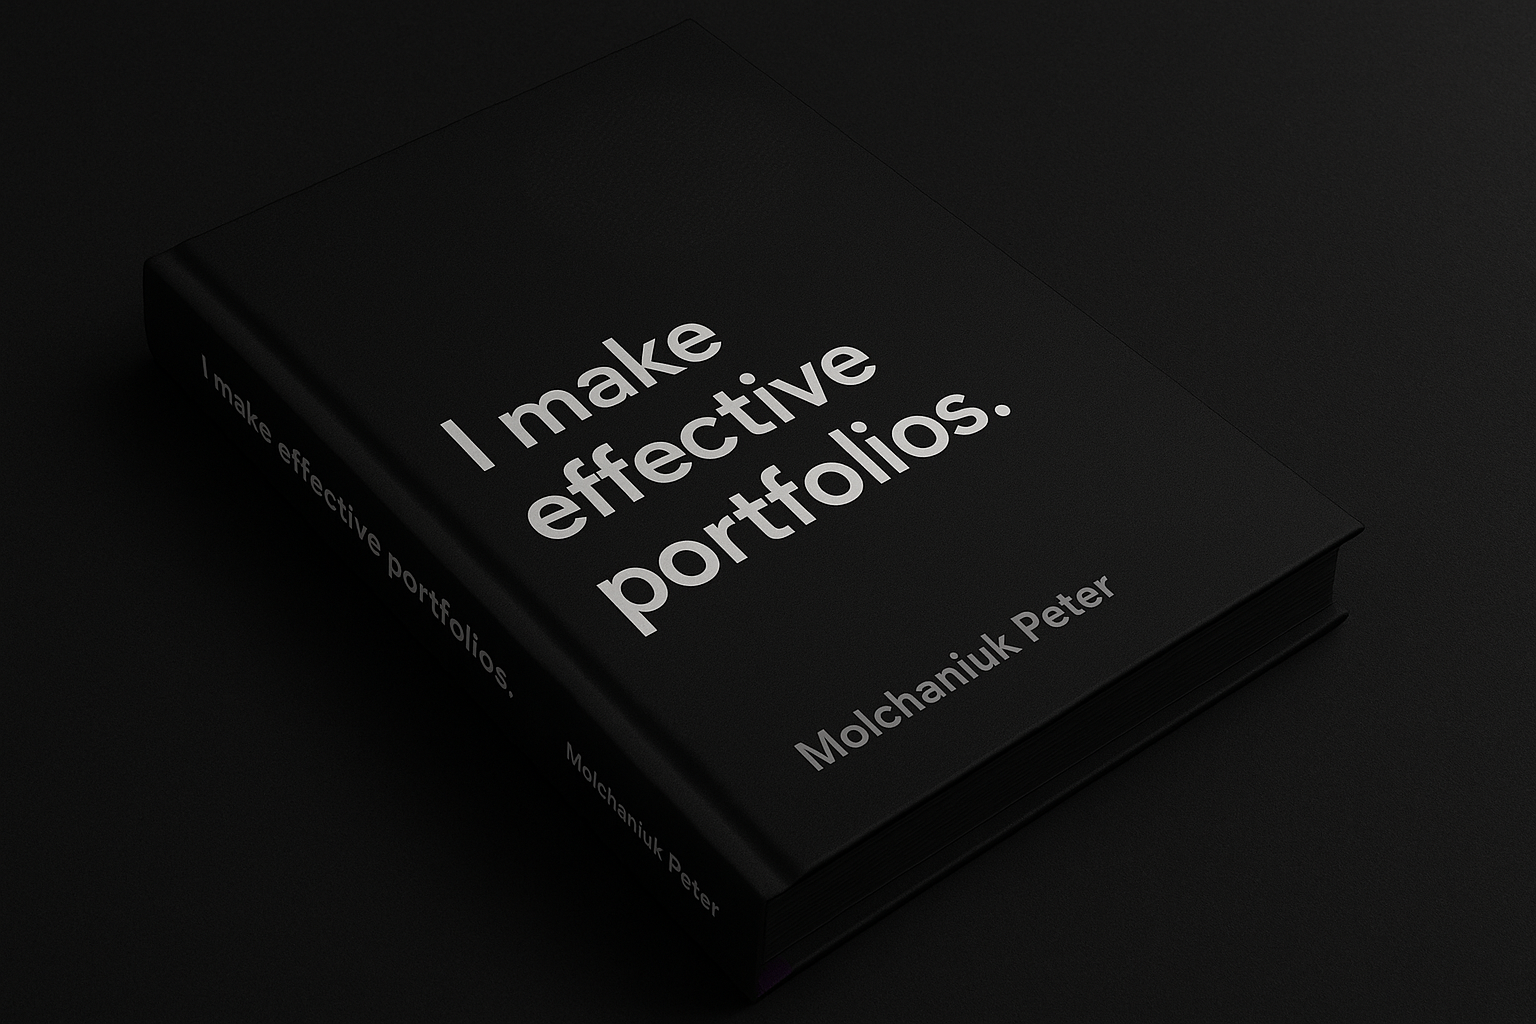
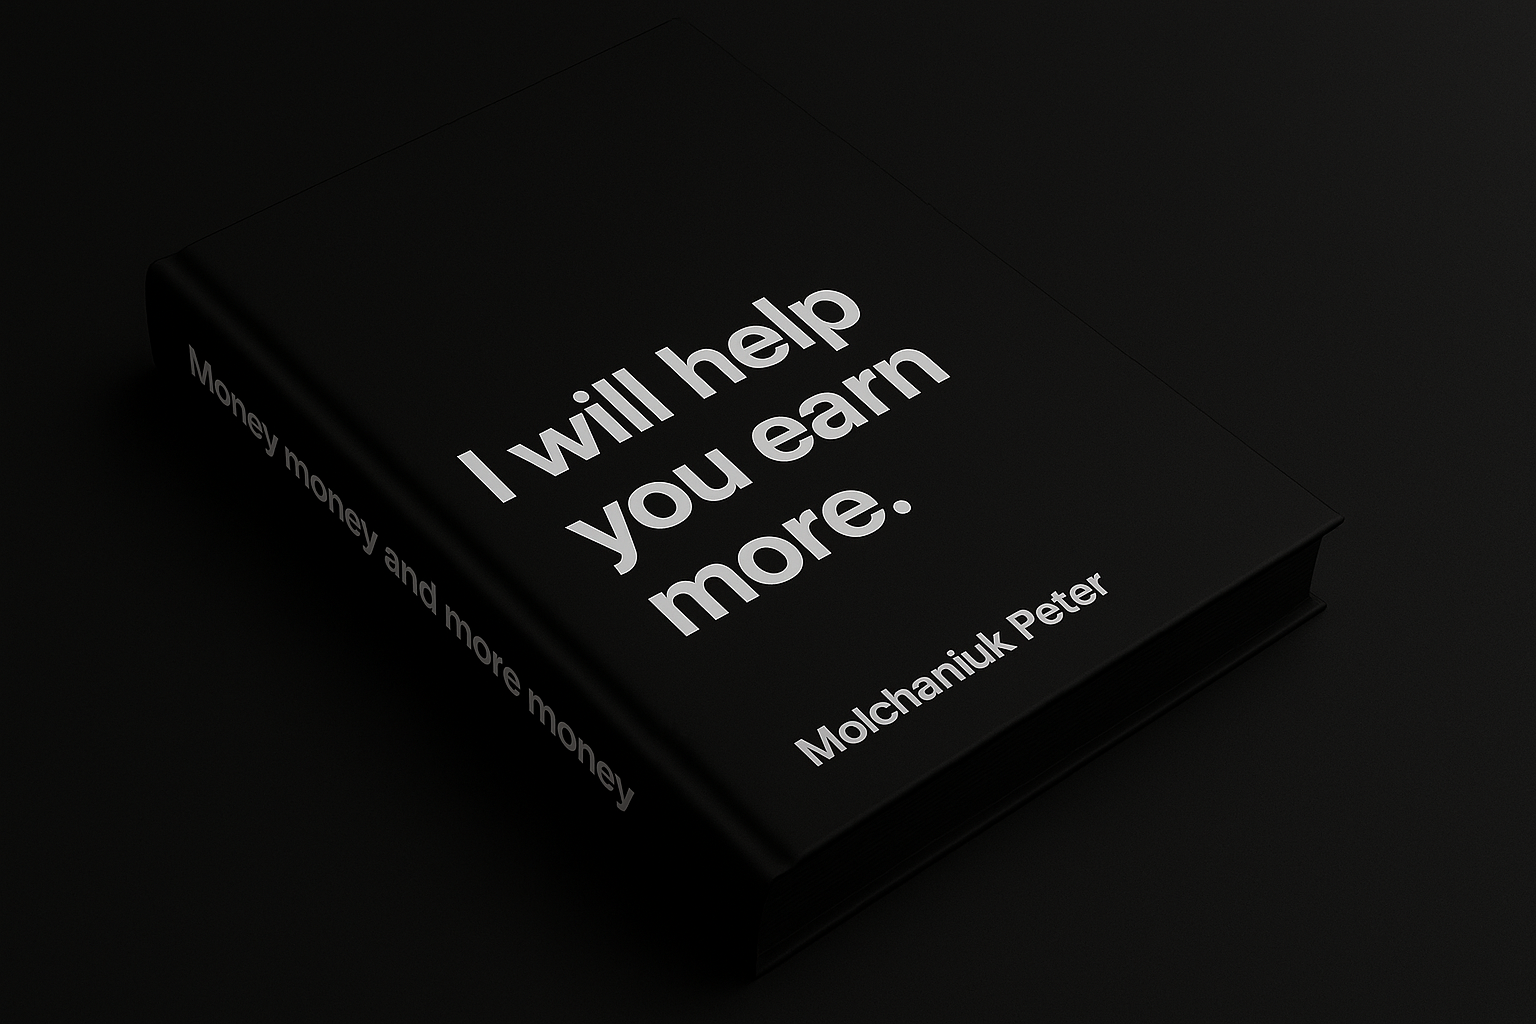
Update portfolio with business automation focus: Telegram bot project, contact info, and UI improvements

diff --git a/src/App.css b/src/App.css
@@ -60,7 +60,7 @@ h2 {
 .hero-section h1 {
   font-size: 3rem;
   margin-bottom: 20px;
-  background: linear-gradient(to right, #ffffff, #cccccc);
+  background: linear-gradient(to right, #4facfe 0%, #00f2fe 100%);
   -webkit-background-clip: text;
   -webkit-text-fill-color: transparent;
   background-clip: text;
@@ -137,9 +137,9 @@ h2 {
 }
 
 .primary-btn {
-  background: linear-gradient(135deg, #667eea 0%, #764ba2 100%);
+  background: linear-gradient(135deg, #00c6ff 0%, #0072ff 100%);
   color: white;
-  box-shadow: 0 5px 15px rgba(102, 126, 234, 0.4);
+  box-shadow: 0 5px 15px rgba(0, 198, 255, 0.4);
 }
 
 .secondary-btn {
@@ -149,10 +149,10 @@ h2 {
 }
 
 .highlight-btn {
-  background: linear-gradient(135deg, #8a2be2, #9370db, #da70d6);
+  background: linear-gradient(135deg, #00b09b, #96c93d);
   background-size: 200% 200%;
   color: white;
-  box-shadow: 0 0 20px rgba(138, 43, 226, 0.7);
+  box-shadow: 0 0 20px rgba(0, 176, 155, 0.7);
   animation: gradientShift 3s ease infinite, pulse 2s ease infinite;
   position: relative;
   overflow: hidden;
@@ -168,7 +168,7 @@ h2 {
 .highlight-btn:hover {
   animation: gradientShift 1s ease infinite, pulse 1s ease infinite;
   transform: translateY(-3px);
-  box-shadow: 0 8px 25px rgba(138, 43, 226, 0.9);
+  box-shadow: 0 8px 25px rgba(0, 176, 155, 0.9);
 }
 
 .highlight-btn::before {
@@ -188,7 +188,7 @@ h2 {
 
 .primary-btn:hover {
   transform: translateY(-3px);
-  box-shadow: 0 8px 20px rgba(102, 126, 234, 0.6);
+  box-shadow: 0 8px 20px rgba(0, 198, 255, 0.6);
 }
 
 .secondary-btn:hover {
@@ -220,13 +220,13 @@ h2 {
 
 @keyframes pulse {
   0% {
-    box-shadow: 0 0 20px rgba(138, 43, 226, 0.7);
+    box-shadow: 0 0 20px rgba(0, 176, 155, 0.7);
   }
   50% {
-    box-shadow: 0 0 30px rgba(147, 112, 219, 0.9);
+    box-shadow: 0 0 30px rgba(150, 201, 61, 0.9);
   }
   100% {
-    box-shadow: 0 0 20px rgba(138, 43, 226, 0.7);
+    box-shadow: 0 0 20px rgba(0, 176, 155, 0.7);
   }
 }
 
@@ -404,7 +404,7 @@ h2 {
 
 .skills-summary li:before {
   content: "✓";
-  color: #ffffff;
+  color: #00c6ff;
   font-weight: bold;
   display: inline-block;
   width: 1em;
@@ -432,15 +432,14 @@ h2 {
   display: block;
   width: 100px;
   height: 3px;
-  background: linear-gradient(135deg, #667eea 0%, #764ba2 100%);
+  background: linear-gradient(135deg, #00c6ff 0%, #0072ff 100%);
   margin: 15px auto;
   border-radius: 2px;
 }
 
 .projects-grid {
-  display: grid;
-  grid-template-columns: repeat(auto-fit, minmax(350px, 1fr));
-  gap: 30px;
+  display: flex;
+  justify-content: flex-start;
   max-width: 1200px;
   margin: 0 auto;
   padding: 0 20px;
@@ -455,11 +454,13 @@ h2 {
   height: 100%;
   display: flex;
   flex-direction: column;
+  max-width: 600px;
+  margin-left: 0;
 }
 
 .project-card:hover {
   transform: translateY(-10px);
-  box-shadow: 0 15px 40px rgba(102, 126, 234, 0.2);
+  box-shadow: 0 15px 40px rgba(0, 198, 255, 0.2);
 }
 
 .project-image {
@@ -513,7 +514,7 @@ h2 {
 .btn {
   display: inline-block;
   padding: 10px 20px;
-  background: linear-gradient(135deg, #667eea 0%, #764ba2 100%);
+  background: linear-gradient(135deg, #00c6ff 0%, #0072ff 100%);
   color: white;
   text-decoration: none;
   border-radius: 5px;
@@ -527,7 +528,7 @@ h2 {
 
 .btn:hover {
   transform: translateY(-2px);
-  box-shadow: 0 5px 15px rgba(102, 126, 234, 0.4);
+  box-shadow: 0 5px 15px rgba(0, 198, 255, 0.4);
 }
 
 /* Services Section */
@@ -595,7 +596,7 @@ h2 {
   display: block;
   width: 100px;
   height: 3px;
-  background: linear-gradient(135deg, #667eea 0%, #764ba2 100%);
+  background: linear-gradient(135deg, #00c6ff 0%, #0072ff 100%);
   margin: 15px auto;
   border-radius: 2px;
 }
@@ -633,14 +634,14 @@ h2 {
 .social-links a {
   display: block;
   margin-bottom: 15px;
-  color: #667eea;
+  color: #00c6ff;
   text-decoration: none;
   font-size: 1.1rem;
   transition: color 0.3s ease;
 }
 
 .social-links a:hover {
-  color: #764ba2;
+  color: #0072ff;
   text-decoration: underline;
 }
 
@@ -680,12 +681,12 @@ h2 {
 .form-group input:focus,
 .form-group textarea:focus {
   outline: none;
-  border-color: #667eea;
-  box-shadow: 0 0 0 3px rgba(102, 126, 234, 0.2);
+  border-color: #00c6ff;
+  box-shadow: 0 0 0 3px rgba(0, 198, 255, 0.2);
 }
 
 .submit-btn {
-  background: linear-gradient(135deg, #667eea 0%, #764ba2 100%);
+  background: linear-gradient(135deg, #00c6ff 0%, #0072ff 100%);
   color: white;
   padding: 15px 40px;
   border: none;
@@ -701,7 +702,7 @@ h2 {
 
 .submit-btn:hover {
   transform: translateY(-3px);
-  box-shadow: 0 10px 25px rgba(102, 126, 234, 0.4);
+  box-shadow: 0 10px 25px rgba(0, 198, 255, 0.4);
 }
 
 /* Responsive Design */
@@ -713,5 +714,13 @@ h2 {
   
   .contact-form {
     padding: 30px;
+  }
+  
+  .projects-grid {
+    justify-content: center;
+  }
+  
+  .project-card {
+    max-width: 100%;
   }
 }

diff --git a/src/components/ContactSection.js b/src/components/ContactSection.js
@@ -14,28 +14,45 @@ const ContactSection = () => {
     });
   };
 
-  const handleSubmit = (e) => {
+  const handleSubmit = async (e) => {
     e.preventDefault();
-    // Здесь будет логика отправки формы
-    alert('Спасибо за ваше сообщение! Я свяжусь с вами в ближайшее время.');
-    setFormData({ name: '', email: '', message: '' });
+    
+    try {
+      // Замените URL на ваш URL из Google Apps Script
+      const response = await fetch('URL_ВАШЕГО_GOOGLE_SCRIPT', {
+        method: 'POST',
+        headers: {
+          'Content-Type': 'application/json',
+        },
+        body: JSON.stringify(formData),
+      });
+      
+      if (response.ok) {
+        alert('Спасибо за ваш запрос! Я свяжусь с вами в ближайшее время для обсуждения возможностей автоматизации ваших бизнес-процессов.');
+        setFormData({ name: '', email: '', message: '' });
+      } else {
+        alert('Произошла ошибка при отправке запроса. Пожалуйста, попробуйте еще раз.');
+      }
+    } catch (error) {
+      alert('Произошла ошибка при отправке запроса. Пожалуйста, попробуйте еще раз.');
+      console.error('Error:', error);
+    }
   };
 
   return (
     <section className="contact-section">
       <div className="container">
-        <h2>Связаться со мной</h2>
+        <h2>Обсудить автоматизацию вашего бизнеса</h2>
         <div className="contact-content">
           <div className="contact-info">
             <h3>Контактная информация</h3>
-            <p><strong>Email:</strong> alexey@example.com</p>
-            <p><strong>Телефон:</strong> +7 (999) 123-45-67</p>
-            <p><strong>Город:</strong> Москва, Россия</p>
+            <p><strong>Email:</strong> molchaniuk_pa@mail.ru</p>
+            <p><strong>Телефон:</strong> +7 (965) 426-25-07</p>
           </div>
           
           <form className="contact-form" onSubmit={handleSubmit}>
             <div className="form-group">
-              <label htmlFor="name">Имя</label>
+              <label htmlFor="name">Ваше имя</label>
               <input
                 type="text"
                 id="name"
@@ -59,7 +76,7 @@ const ContactSection = () => {
             </div>
             
             <div className="form-group">
-              <label htmlFor="message">Сообщение</label>
+              <label htmlFor="message">Опишите ваши бизнес-процессы, которые хотели бы автоматизировать</label>
               <textarea
                 id="message"
                 name="message"
@@ -70,7 +87,7 @@ const ContactSection = () => {
               ></textarea>
             </div>
             
-            <button type="submit" className="submit-btn">Отправить сообщение</button>
+            <button type="submit" className="submit-btn">Отправить запрос на автоматизацию</button>
           </form>
         </div>
       </div>

diff --git a/src/components/ProjectsSection.js b/src/components/ProjectsSection.js
@@ -1,46 +1,22 @@
 import React from 'react';
 
 const ProjectsSection = () => {
-  // Ваши настоящие работы с реальными изображениями
+  // Проект по автоматизации бизнес-процессов
   const projects = [
     {
       id: 1,
-      title: "SofiaRose",
-      description: "Персональный проект портфолио",
-      technologies: "React, JavaScript, CSS",
-      image: process.env.PUBLIC_URL + "/images/sofia-rose.jpg",
-      demoUrl: "https://ppport1.vercel.app/"
-    },
-    {
-      id: 2,
-      title: "AlexFoto",
-      description: "Персональный веб-сайт",
-      technologies: "React, JavaScript, HTML/CSS",
-      image: process.env.PUBLIC_URL + "/images/alex-foto.jpg",
-      demoUrl: "https://me-port-pied.vercel.app"
-    },
-    {
-      id: 3,
-      title: "Uncle Kolya Restaurant",
-      description: "Веб-сайт ресторана",
-      technologies: "React, Node.js, MongoDB",
-      image: process.env.PUBLIC_URL + "/images/uncle-kolya.jpg",
-      demoUrl: "https://uncle-kolya-restaurant.vercel.app"
-    },
-    {
-      id: 4,
-      title: "Alina Volkova",
-      description: "Персональный сайт для дизайнера",
-      technologies: "React, JavaScript, CSS",
-      image: process.env.PUBLIC_URL + "/images/alina-volkova.jpg",
-      demoUrl: "https://alina-volkova.vercel.app"
+      title: "Телеграм бот для автоматизации",
+      description: "Телеграм бот, который отвечает на вопросы пользователей, может бронировать услуги и сохранять данные в Excel таблицу.",
+      technologies: "Python, Telegram Bot API, Excel API",
+      image: process.env.PUBLIC_URL + "/images/tg-botq.jpg",
+      demoUrl: "https://t.me/Drive_TechBot"
     }
   ];
 
   return (
     <section className="projects-section">
       <div className="container">
-        <h2>Мои работы</h2>
+        <h2>Мои проекты по автоматизации</h2>
         <div className="projects-grid">
           {projects.map(project => (
             <div key={project.id} className="project-card">
@@ -52,7 +28,7 @@ const ProjectsSection = () => {
                 <p>{project.description}</p>
                 <p className="technologies"><strong>Технологии:</strong> {project.technologies}</p>
                 <div className="project-links">
-                  <a href={project.demoUrl} className="btn" target="_blank" rel="noopener noreferrer">Демо</a>
+                  <a href={project.demoUrl} className="btn" target="_blank" rel="noopener noreferrer">Подробнее</a>
                 </div>
               </div>
             </div>

diff --git a/src/components/HeroSection.js b/src/components/HeroSection.js
@@ -7,21 +7,21 @@ const HeroSection = () => {
       <div className="container">
         <div className="hero-content">
           <div className="hero-text">
-            <h1>Веб-разработчик</h1>
-            <p className="hero-subtitle">Создаю современные веб-приложения и сайты</p>
+            <h1>Автоматизация бизнес-процессов</h1>
+            <p className="hero-subtitle">Помогаю компаниям работать быстрее и без лишней рутины</p>
             <p className="hero-description">
-              Привет! Я специализируюсь на создании качественных веб-решений, 
-              которые помогают бизнесу достигать своих целей. Ниже представлены 
-              мои лучшие работы.
+              Привет! Я начинающий специалист по автоматизации и создаю решения, которые упрощают работу, 
+              уменьшают ошибки и экономят время. Ниже ты найдешь мои первые проекты, где я применяю 
+              подходы, которые реально облегчают жизнь бизнесу.
             </p>
             <div className="hero-buttons">
               <button className="primary-btn">Смотреть проекты</button>
               <button className="secondary-btn">Связаться со мной</button>
               <button 
                 className="highlight-btn" 
-                onClick={() => window.open('https://ваше-второе-портфолио.com', '_blank')}
+                onClick={() => window.open('https://pet-web-portfolio.vercel.app/', '_blank')}
               >
-                Хотите сэкономить десятки тысяч рублей?
+                Хотите сделать стильный сайт?
               </button>
             </div>
           </div>
